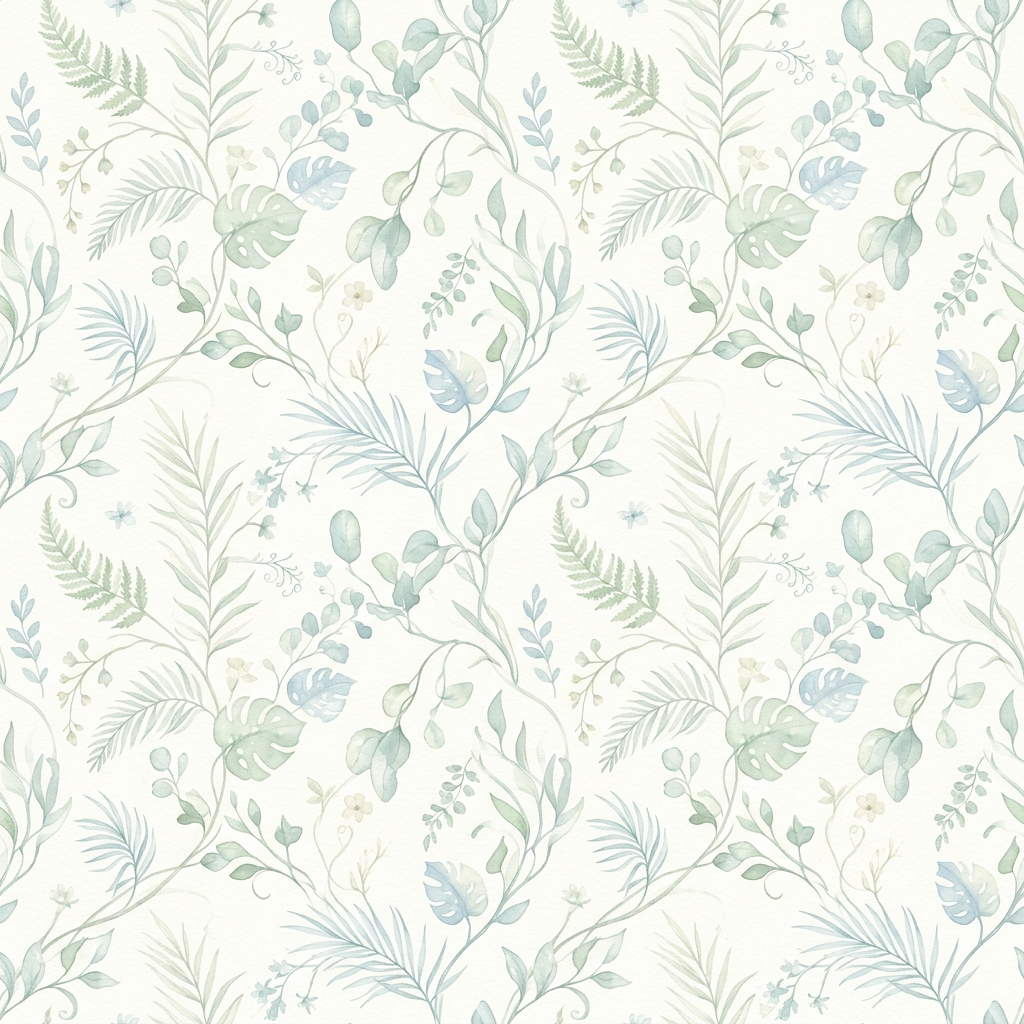
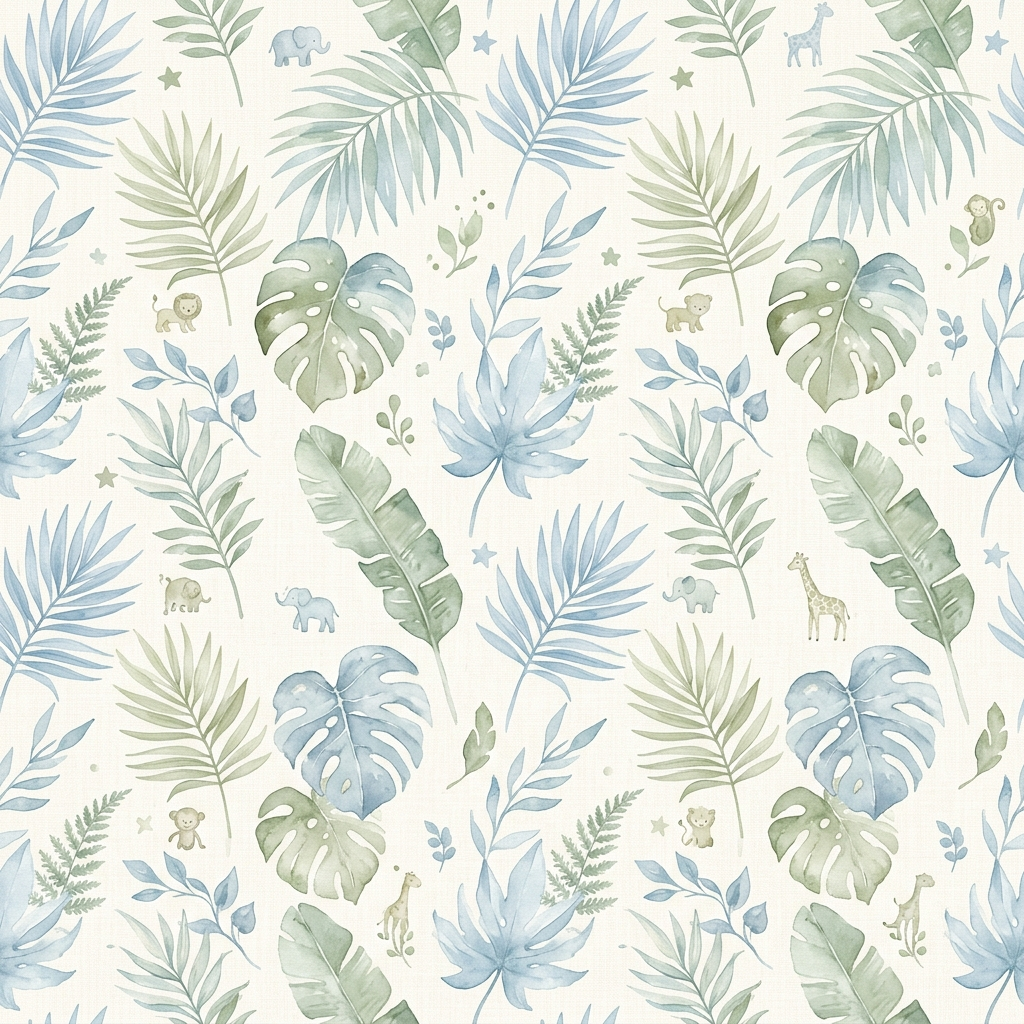
design: restore original baby lion illustration, update background to pastel jungle palm leaves pattern

diff --git a/src/app/globals.css b/src/app/globals.css
@@ -33,7 +33,7 @@
 body {
   font-family: var(--font-sans);
   color: var(--text-main);
-  background-image: linear-gradient(rgba(245, 249, 252, 0.82), rgba(235, 242, 247, 0.82)), url('/pastel_blue_floral_bg.png');
+  background-image: linear-gradient(rgba(245, 249, 252, 0.82), rgba(235, 242, 247, 0.82)), url('/pastel_jungle_bg.png');
   background-size: 380px;
   background-repeat: repeat;
   background-attachment: fixed;
